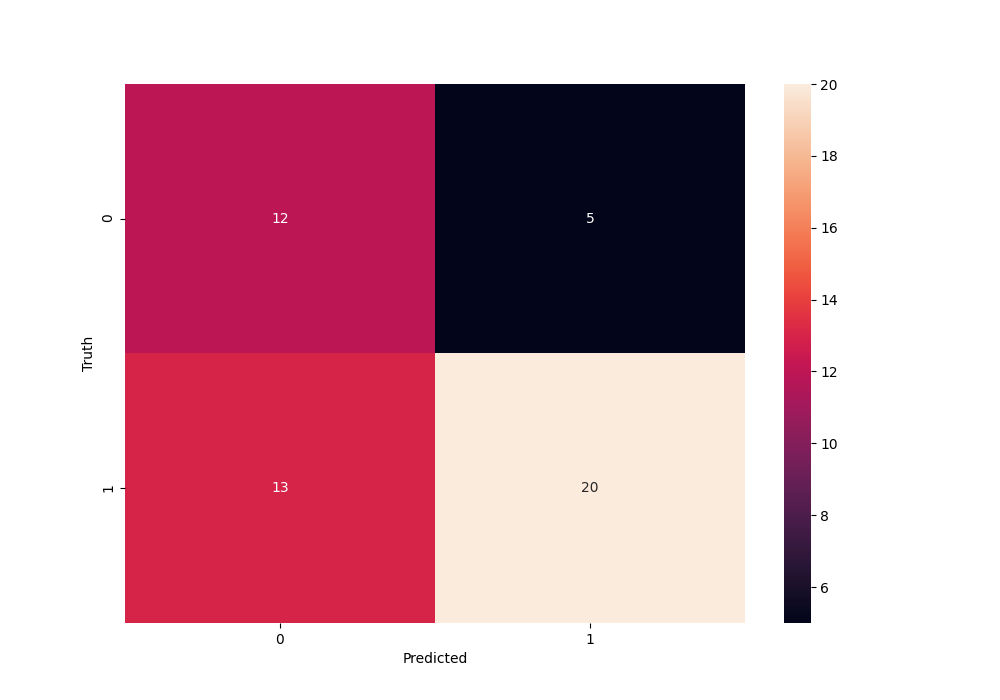
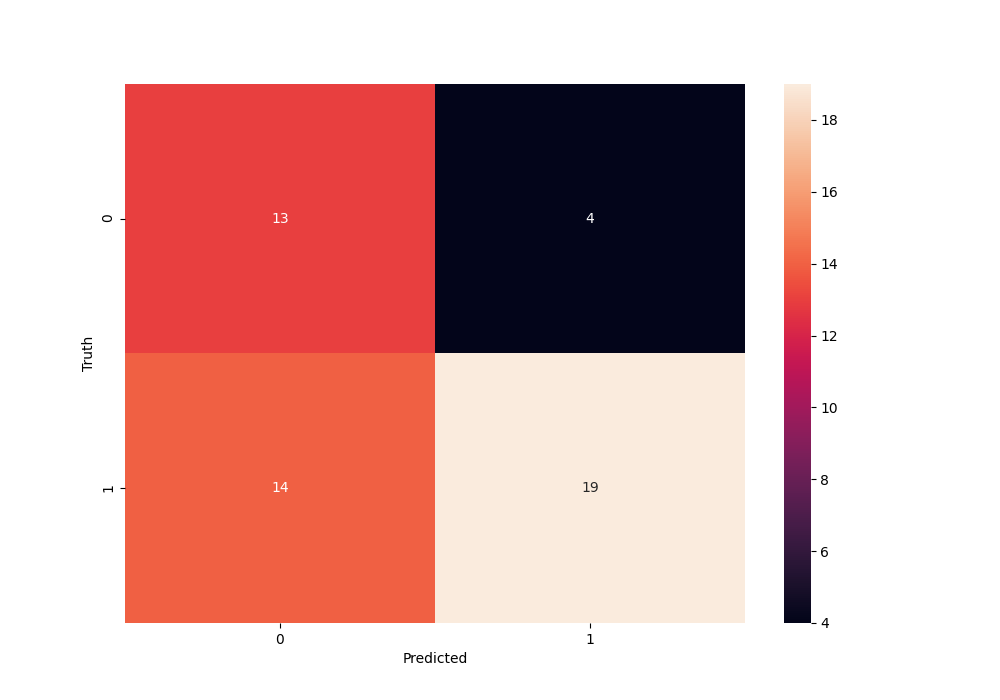
epochs

diff --git a/main.py b/main.py
@@ -200,7 +200,7 @@ if __name__ == '__main__':
     X_train = X_train_flatten / 255
     X_test = X_test_flatten / 255
 
-    model = NeuralNetwork(X_train, y_train, X_test, y_test, epochs=10000, learning_rate=0.01)
+    model = NeuralNetwork(X_train, y_train, X_test, y_test, epochs=15000, learning_rate=0.01)
     model.fit()
 
     y_predicted = model.predict(X_test, threshold=0.3)
